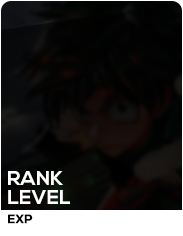
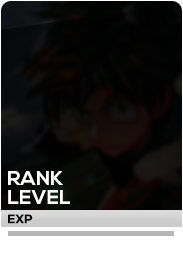
no message

diff --git a/bot.js b/bot.js
@@ -606,11 +606,12 @@ if (message.content === "listemojis") {
                     var myExp = watermarkText.exp - lastGoalExp;
                     var widthProgressBar = ( myExp * 100 / nextGoalExp ) * 166 / 100;
 
-                    const textedSVG = new Buffer(`<svg width="183" height="80">
-                      <text x="173" y="27" font-size="18" text-anchor="end" fill="#fff" style="font-family:tahoma">${watermarkText.rank}</text>
-                      <text x="173" y="47" font-size="18" text-anchor="end" fill="#fff" style="font-family:tahoma">${watermarkText.level}</text>
-                      <text x="173" y="67" font-size="12" text-anchor="end" fill="#000" style="font-family:tahoma" font-weight="bold">${watermarkText.exp}</text>
-                      <rect x="9" y="74" width="${widthProgressBar}" height="5" fill="#105bcb" />
+                    const textedSVG = new Buffer(`<svg width="183" height="120">
+                      <text x="173" y="39" font-size="18" text-anchor="end" fill="#fff" style="font-family:tahoma">${watermarkText.rank}</text>
+                      <text x="173" y="59" font-size="18" text-anchor="end" fill="#fff" style="font-family:tahoma">${watermarkText.level}</text>
+                      <text x="173" y="79" font-size="12" text-anchor="end" fill="#000" style="font-family:tahoma" font-weight="bold">${watermarkText.exp}</text>
+                      <rect x="8" y="87" width="${widthProgressBar}" height="5" fill="#105bcb" />
+                      <text x="91" y="111" font-size="15" text-anchor="middle" fill="#000" style="font-family: 'tahoma'; font-weight:normal; font-style: normal">${watermarkText.username}</text>
                      </svg>`);
                     sharp('lvl/output2.png')
                     .overlayWith(textedSVG,{top:163, left:0})
@@ -724,6 +725,7 @@ function getInfoUser(idUser)
             k.rank = index + 1;
             k.level = Math.floor((50 + Math.sqrt(50 * 50 - 4 * 50 * (-element.point) ))/ (2 * 50));
             k.exp = element.point;
+            k.username = element.username;
             resolve(k);
           }
         });
